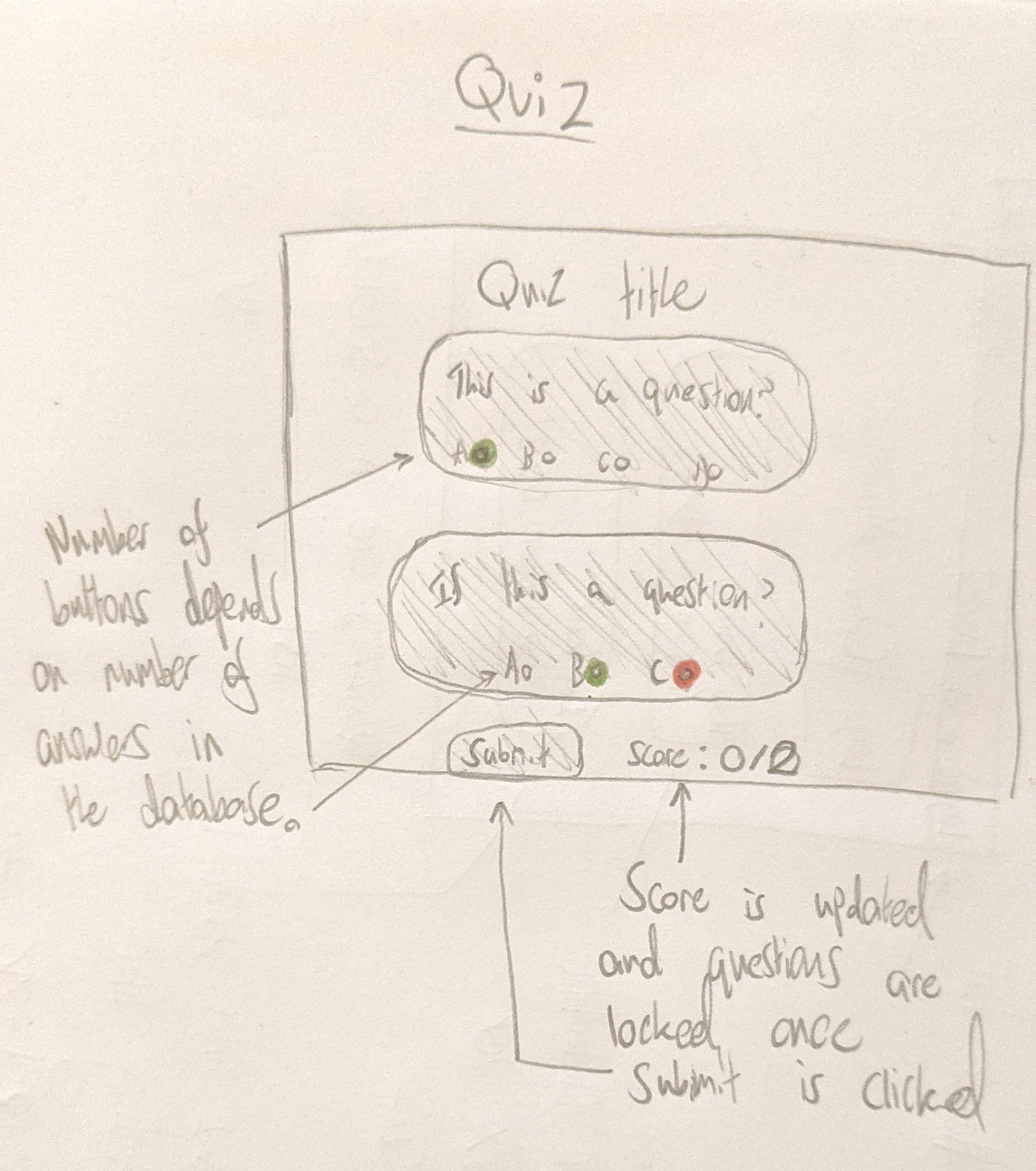
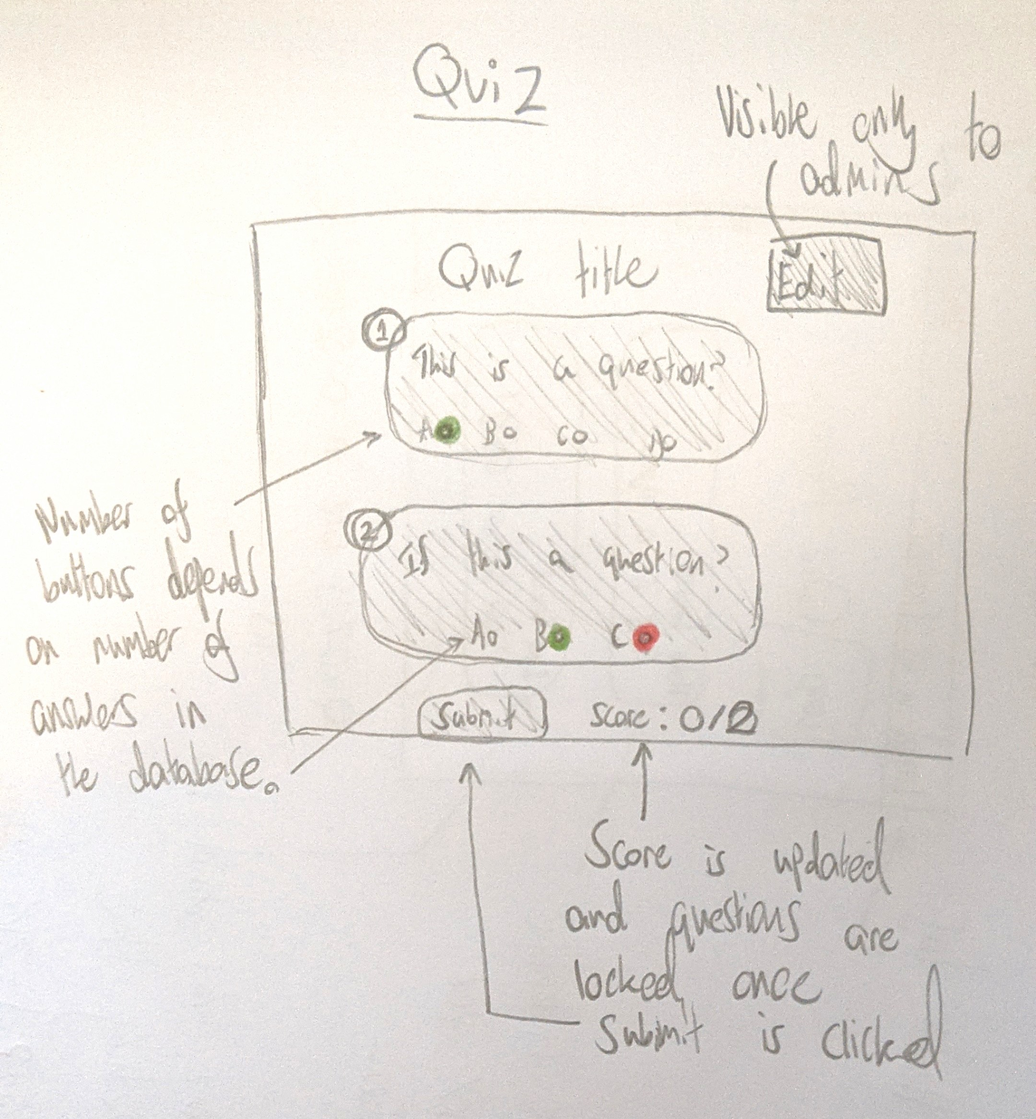
Wrote database plans

diff --git a/Documentation/Development Journey.md b/Documentation/Development Journey.md
@@ -56,4 +56,28 @@ Finally, the quiz page itself:
 
 ![A drawing of the quiz page](img/quiz_sketch.jpg)
 
-Similarly to the home page's quiz list, each question of the quiz will be rendered in its own box. Answers will be in the form of radio buttons (meaning only one answer is selectable), and the user is able to submit their answers at the bottom of the page, where their score will then be revealed. If they chose correctly, then the button will be highlighted green. Otherwise their incorrect answer will be highlighted in red, with the correct answer shown in green.
+Similarly to the home page's quiz list, each question of the quiz will be rendered in its own box and will be numbered based on the order they are rendered. Answers will be in the form of radio buttons (meaning only one answer is selectable), and the user is able to submit their answers at the bottom of the page, where their score will then be revealed. If they chose correctly, then the button will be highlighted green. Otherwise their incorrect answer will be highlighted in red, with the correct answer shown in green.
+
+The edit button, visible to "Edit" users, will bring the user to a similar page but with editable text **boxes** instead of text. The text boxes will be prefilled with quiz information and the user can change text or empty the boxes to delete the question or answer(s). The submit button is replaced with a "save" button. When the button is clicked, the data in the text boxes will be read and committed to the database.
+
+### Database Plans
+
+The fact that all quizzes will be viewable by any logged in user, and that a privileged user can edit any quiz, removes a lot of complexity from my database design. Overall my database will be heirarchal in design, with answers that belong to questions, and questions that belong to quizzes. I've written my plan out in text rather than drawing it in pencil for readabilities sake.
+
+```
+Quizzes
+id: int
+name: string
+description: string
+
+Questions
+id: int
+text: string
+quiz_id: int, foreign key
+
+Answers
+id: int
+text: string
+question_id: int, foreign key
+is_correct: bool
+```
